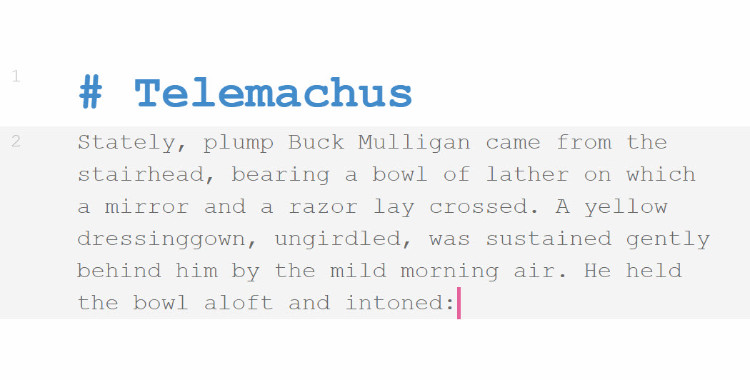
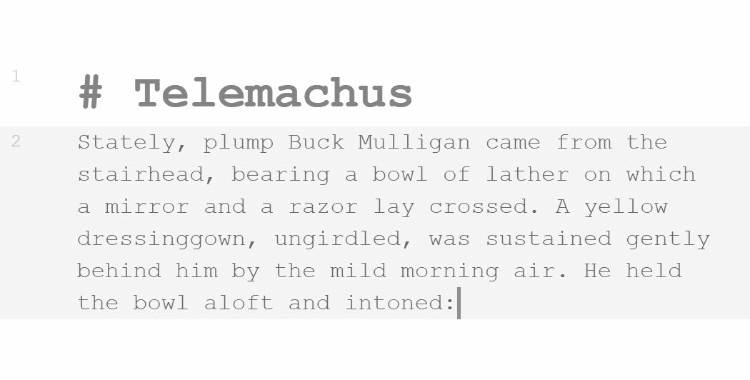
convert top images to greyscale

diff --git a/src/data/blognotes/markdown-for-creative-writers.md b/src/data/blognotes/markdown-for-creative-writers.md
@@ -92,7 +92,7 @@ Export your manuscript as a Markdown file at the end of each writing session, an
 
 ## Conclusion
 
-Although not ideal for some cases, Markdown can make your writing process easier and faster.
+Although not ideal for all cases, Markdown can make your writing process easier and faster.
 
 It can be especially good for procrastinators. Writing in Markdown is much more distraction-free than working with traditional word processors. Markdown files are also great for back-ups and version control.
 
